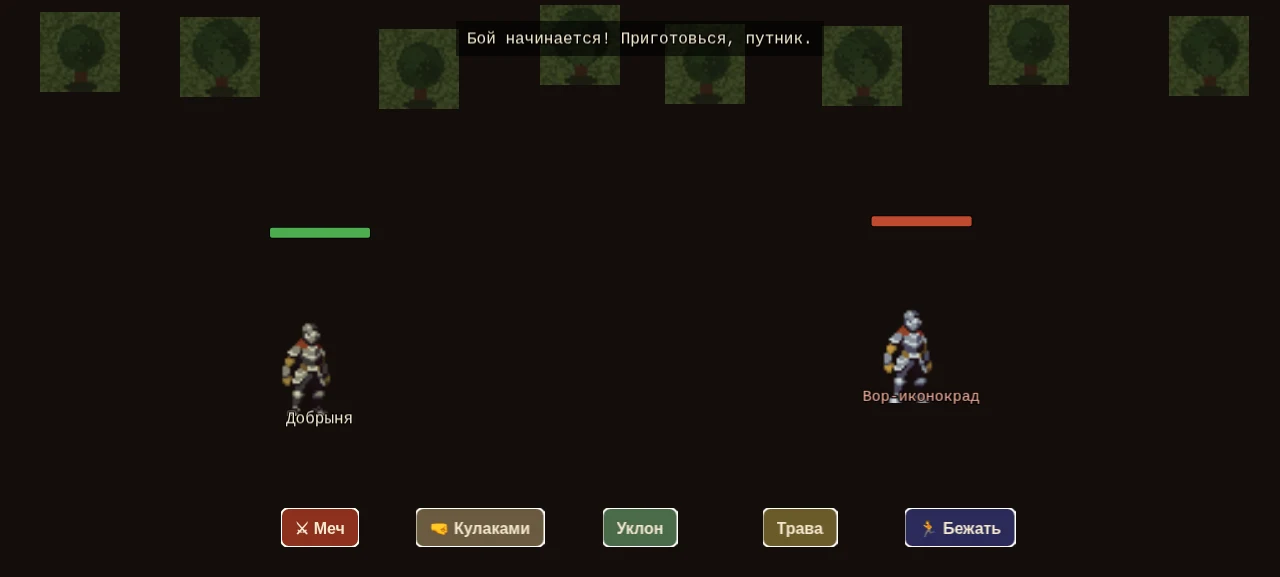
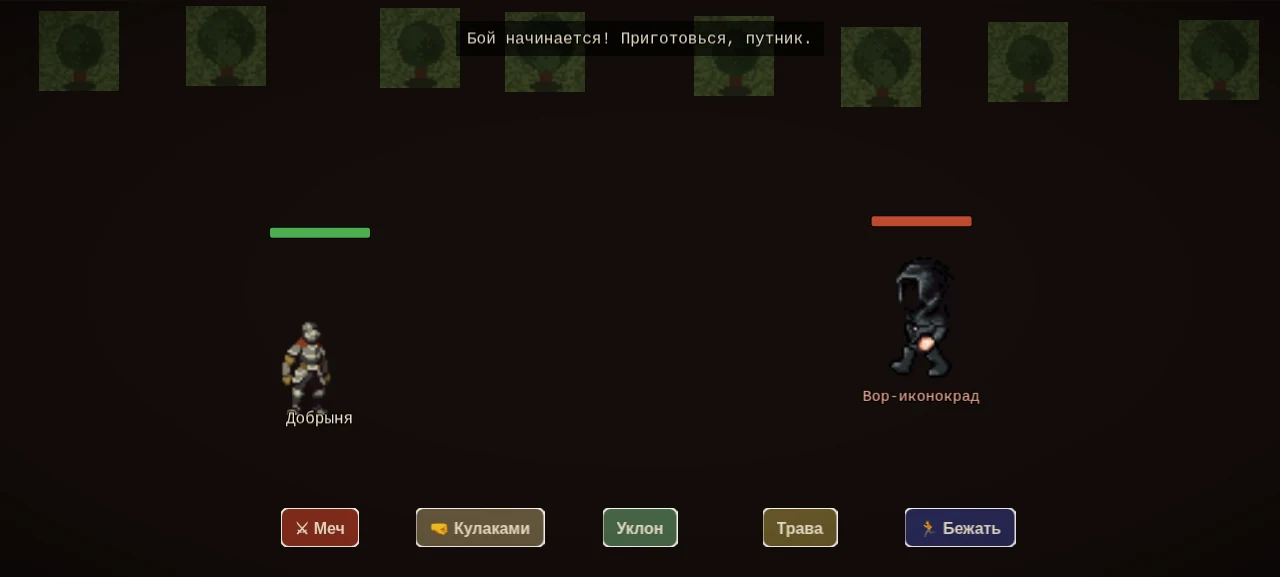
feat: раунд 33 — уникальная фигурка вора (угольно-серый капюшон, серый плащ, кинжал; LPC-композит enemy_thief.png, скрипт make_thief_sprite.py); фикс «вор одинаков с игроком» в бою: режиссёр скриншотов ждал активации Title (гонка давала fallback-рыцаря knight_idle_c2 — точную копию героя), в бою сто

diff --git a/game/src/data/thief.js b/game/src/data/thief.js
@@ -899,10 +899,18 @@ export function presentThiefEncounter(scene, locationId, opts = {}) {
     scene.busyDialog = true;
 
     const { width, height } = scene.scale;
-    const x = (opts.x !== undefined) ? opts.x : width * 0.68;
-    const y = (opts.y !== undefined) ? opts.y : height * 0.27;
-    const texKey = scene.textures.exists('enemy_bandit') ? 'enemy_bandit' : 'knight_idle';
-    const sprite = scene.add.image(x, y, texKey).setScale(2.6).setDepth(60);
+    // Раунд 33: вор стоит В ПРАВОЙ свободной зоне (панель диалога занимает
+    // ~26–73% ширины по центру — раньше фигурка пряталась за ней).
+    const x = (opts.x !== undefined) ? opts.x : width * 0.83;
+    const y = (opts.y !== undefined) ? opts.y : height * 0.40;
+    // Раунд 33 (владелец): у вора — УНИКАЛЬНАЯ фигурка (капюшон, серый плащ,
+    // кинжал), а не общий «крестьянин», как у игрока. Рисуем ОДИН кадр листа
+    // (раньше add.image показывал всю сетку 4×4), профиль ВЛЕВО — на игрока.
+    const texKey = scene.textures.exists('enemy_thief') ? 'enemy_thief'
+        : (scene.textures.exists('enemy_bandit') ? 'enemy_bandit' : 'knight_idle');
+    // кадр 4 = строка 1 (профиль влево), колонка 0 (стойка)
+    const thiefFrame = (texKey === 'knight_idle') ? 0 : 4;
+    const sprite = scene.add.sprite(x, y, texKey, thiefFrame).setScale(2.6).setDepth(60);
     scene.tweens.add({
         targets: sprite,
         y: y - 4,

diff --git a/game/src/scenes/BootScene.js b/game/src/scenes/BootScene.js
@@ -53,7 +53,8 @@ export class BootScene extends Phaser.Scene {
         this.load.image('deco_fence', 'assets/tiles/fence_0.png');
 
         // ----- СПРАЙТЫ ПЕРСОНАЖЕЙ (spritesheets 64×64, 16 кадров: 4 строки × 4 колонки) -----
-        const spriteKeys = ['player', 'npc_elder', 'npc_merchant', 'npc_soldier', 'npc_bandit', 'enemy_bandit', 'enemy_wolf'];
+        // Раунд 33: 'enemy_thief' — уникальная фигурка вора (капюшон/плащ/кинжал)
+        const spriteKeys = ['player', 'npc_elder', 'npc_merchant', 'npc_soldier', 'npc_bandit', 'enemy_bandit', 'enemy_thief', 'enemy_wolf'];
         spriteKeys.forEach((key) => {
             this.load.spritesheet(key, `assets/sprites/${key}.png`, { frameWidth: 64, frameHeight: 64 });
         });
@@ -296,6 +297,7 @@ export class BootScene extends Phaser.Scene {
         this.createWalkAnimations('npc_soldier');
         this.createWalkAnimations('npc_bandit');
         this.createWalkAnimations('enemy_bandit');
+        this.createWalkAnimations('enemy_thief');   // раунд 33: фигурка вора
         this.createWalkAnimations('enemy_wolf');
 
         // ----- Анимации Fantasy Knight (для CombatScene) -----

diff --git a/game/src/tools/ScreenshotDirector.js b/game/src/tools/ScreenshotDirector.js
@@ -113,7 +113,12 @@ export function bootScreenshotDirector() {
     // Ждём полной загрузки игры (window.game создан в index.html) и запускаем
     const t0 = Date.now();
     const tryStart = () => {
-        if (window.game && window.game.scene && window.game.scene.getScene('Title')) {
+        // Раунд 33 (фикс): ждать не только СУЩЕСТВОВАНИЯ сцены Title (экземпляры
+        // создаются при старте игры), но и её АКТИВАЦИИ — иначе сценарий мог
+        // стартовать до BootScene.create, анимации рыцаря/вора ещё не были
+        // созданы, и вор в бою отрисовывался запасным рыцарем (как у игрока).
+        const title = window.game && window.game.scene && window.game.scene.getScene('Title');
+        if (title && title.scene.isActive()) {
             SCENARIOS[shot]().catch(err => console.error('[shots] scenario failed:', shot, err));
             return;
         }

diff --git a/game/src/scenes/CombatScene.js b/game/src/scenes/CombatScene.js
@@ -129,6 +129,11 @@ export class CombatScene extends Phaser.Scene {
                 // Fallback — стандартный спрайт (top-down)
                 sp = this.add.sprite(x, y, e.spriteKey, 0).setScale(2.5);
                 sp.play(`${e.spriteKey}_idle_down`);
+            } else if (this.textures.exists(e.spriteKey)) {
+                // Раунд 33 (фикс): если анимации не успели создаться (гонка при
+                // старте) — показываем СТАТИЧНЫЙ кадр собственного спрайта врага
+                // (вид спереди), а НЕ запасного рыцаря, одинакового с игроком.
+                sp = this.add.sprite(x, y, e.spriteKey, 0).setScale(2.5);
             } else {
                 // Fallback на рыцаря (для других врагов тоже используем knight_c2)
                 sp = this.add.sprite(x, y, 'knight_idle_c2', 0).setScale(2.5);

diff --git a/game/src/data/characters.js b/game/src/data/characters.js
@@ -53,7 +53,10 @@ export const ENEMY_TEMPLATES = {
         attackSkill: 50,
         dodge: 35,   // раунд 32: вёрткий вор (было 30) — слабые бойцы мажут чаще
         db: { min: 1, max: 4 },
-        spriteKey: 'enemy_bandit',
+        // Раунд 33 (владелец): уникальная фигурка вора — капюшон, серый
+        // плащ, кинжал (LPC-композит, см. game/tools/make_thief_sprite.py).
+        // Раньше был 'enemy_bandit' — тот же «крестьянин», что у игрока.
+        spriteKey: 'enemy_thief',
         color: 0x222222,
         armorId: 'leather',  // кожаная броня, def 2
     },

diff --git a/sw.js b/sw.js
@@ -23,8 +23,8 @@ v17 — релиз: все скриншоты пересняты из актуа
 v4 — добавлено кеширование /game/assets/ (cache-first).
    Сцены игры (/game/src/) НЕ кешируются — для горячей перезагрузки. */
 
-var CACHE_NAME = 'chronicles-ruthenia-v30';
-var GAME_ASSETS_CACHE = 'game-assets-v1';
+var CACHE_NAME = 'chronicles-ruthenia-v31';
+var GAME_ASSETS_CACHE = 'game-assets-v2';
 
 self.addEventListener('install', function (event) {
     self.skipWaiting();

diff --git a/game/tools/make_thief_sprite.py b/game/tools/make_thief_sprite.py
@@ -1,0 +1,78 @@
+#!/usr/bin/env python3
+# Раунд 33: уникальная фигурка вора (enemy_thief.png).
+# Основа — Universal LPC (как у всех жителей), но воровской облик:
+# угольно-серый капюшон, серый плащ, тёмная одежда, кинжал.
+# Части: локальные game/assets/lpc + hat/cloth/hood + cape/solid/male + dagger
+# из репозитория sanderfrenken (лицензии в game/assets/lpc/CREDITS.csv).
+#
+# Игровой лист: 256×256, кадры 64×64, сетка 4×4, строки 0=down,1=left,2=right,3=up,
+# колонки: 0=idle, 1..3 = шаги (BootScene.createWalkAnimations играет [1,2,3,2]).
+import os
+from PIL import Image
+
+ROOT = '/home/z/sosnewda-live'
+OUT = os.path.join(ROOT, 'game/assets/sprites/enemy_thief.png')
+FS = 64
+
+# Слои снизу вверх (порядок как в manifest.json игры: body→hair→legs→feet→torso,
+# затем плащ, капюшон, кинжал). Плащ «solid» рисуется ПОВЕРХ — это visible cloak.
+LAYERS = [
+    ROOT + '/game/assets/lpc/body/male_light.png',
+    ROOT + '/game/assets/lpc/hair/messy1_black.png',
+    ROOT + '/game/assets/lpc/legs/pants_charcoal.png',
+    ROOT + '/game/assets/lpc/feet/boots_charcoal.png',
+    ROOT + '/game/assets/lpc/torso/longsleeve_laced_charcoal.png',
+    ROOT + '/game/assets/lpc/extra/cape_gray_male.png',
+    ROOT + '/game/assets/lpc/extra/hood_charcoal.png',
+    ROOT + '/game/assets/lpc/extra/dagger.png',
+]
+
+# В классическом LPC-листе (832×1344) walk-строки = 8..11 в порядке
+# up, left, down, right (проверено визуально: 8 — спина, 9 — профиль влево,
+# 10 — лицо, 11 — профиль вправо). Игра ждёт: 0=down,1=left,2=right,3=up.
+LPC_ROW_FOR_GAME_ROW = {0: 10, 1: 9, 2: 11, 3: 8}
+# Колонки игры из 9-кадрового walk-цикла LPC: idle=проход(1), шаги 0 и 2.
+COL_FROM_LPC = {0: 1, 1: 0, 2: 1, 3: 2}
+
+
+def frame(img, row, col):
+    return img.crop((col * FS, row * FS, (col + 1) * FS, (row + 1) * FS))
+
+
+def main():
+    imgs = [Image.open(p).convert('RGBA') for p in LAYERS]
+    out = Image.new('RGBA', (FS * 4, FS * 4), (0, 0, 0, 0))
+    for grow, lrow in LPC_ROW_FOR_GAME_ROW.items():
+        for gcol, lcol in COL_FROM_LPC.items():
+            canvas = Image.new('RGBA', (FS, FS), (0, 0, 0, 0))
+            for img in imgs:
+                # листы 832×1344 и 832×2944: walk-строки одинаковы (8..11)
+                canvas.alpha_composite(frame(img, lrow, lcol))
+            out.paste(canvas, (gcol * FS, grow * FS))
+    out.save(OUT)
+    print('saved', OUT)
+
+    # Контактный лист для проверки (×3, на тёмном фоне, с рамками сетки)
+    dbg = Image.new('RGBA', (FS * 4 * 3, FS * 4 * 3), (45, 40, 52, 255))
+    big = out.resize((FS * 4 * 3, FS * 4 * 3), Image.NEAREST)
+    dbg.alpha_composite(big)
+    for i in range(1, 4):
+        for a in range(0, dbg.width, 3):
+            pass
+    px = dbg.load()
+    for i in range(1, 4):
+        x = i * FS * 3
+        for y in range(dbg.height):
+            if y % 3 == 0:
+                px[x, y] = (255, 0, 0, 255)
+    for i in range(1, 4):
+        y = i * FS * 3
+        for x in range(dbg.width):
+            if x % 3 == 0:
+                px[x, y] = (255, 0, 0, 255)
+    dbg.convert('RGB').save('/tmp/thief_preview.png')
+    print('preview /tmp/thief_preview.png')
+
+
+if __name__ == '__main__':
+    main()

diff --git a/CHANGES.md b/CHANGES.md
@@ -1,3 +1,15 @@
+## Раунд 33 — Уникальная фигурка вора (2026-09-16)
+
+**1. У ВОРА — СОБСТВЕННАЯ ФИГУРКА** — раньше вор рисовался тем же спрайтом, что разбойник и «крестьянин» игрока (в бою — и вовсе запасной рыцарь, одинаковый с героем). Собран новый лист `enemy_thief.png` (4×4, 64px): угольно-серый капюшон, серый плащ, тёмная одежда, кинжал в руке. Части — Universal LPC (hat/cloth/hood, cape/solid/male, weapon/sword/dagger, лицензии уже в `game/assets/lpc/CREDITS.csv`); сборка — скрипт `game/tools/make_thief_sprite.py` (перезапускается за секунду).
+
+**2. ФИКС «ОДИНАКОВЫХ С ИГРОКОМ» В БОЮ** — найдена гонка: директор скриншотов стартовал сценарий до активации Title, бой открывался до создания анимаций, и вор отрисовывался запасным рыцарем `knight_idle_c2` — точной копией героя (это и попало на скриншот 08 раунда 32). Директор теперь ждёт активации сцены; в CombatScene добавлен стойкий запасной вариант — статичный кадр собственного спрайта врага вместо рыцаря.
+
+**3. ВСТРЕЧА С ВОРОМ НА ЛОКАЦИИ** — фигурка вора рисуется ОДНИМ кадром листа (раньше `add.image` показывал всю сетку 4×4), профилем ВЛЕВО — на игрока, и стоит в правой свободной зоне экрана: раньше он прятался за панелью диалога.
+
+**4. СКРИНШОТЫ 08 И 09 ПЕРЕСНЯТЫ** — на сайте в кадрах боя и встречи с вором теперь уникальный капюшонный вор (`?renderer=canvas` — детерминированный Canvas-рендер для съёмки).
+
+**5. КЭШ** — SW `chronicles-ruthenia-v31`, кэш игровых ассетов `game-assets-v2` (новый спрайт подтянется сразу, а не со второго визита).
+
 ## Раунд 32 — Час за шаг вора, время 1:30, симуляция боя, скриншоты по 3 в ряд (2026-09-16)
 
 **1. СПИСОК СКРИНШОТОВ САЙТА — ПО 3 В РЯД** — галерея перестроена (`repeat(3, 1fr)`, на мобильных — колонка) и снята заново в порядке владельца: 1) Главное меню; 2) Окно выбора персонажа; 3) Окно кастомизации персонажа; 4) Локация «Деревня»; 5) Карта местности (теперь все 11 локаций, включая Опушку и Поляну); 6) Интерьер дома старосты; 7) Начальный диалог со священником (рассказ о краже иконы); 8) Окно сцены боя; 9) Локация с вором и персонажем игрока до боя. Для съёмки добавлен отладочный «директор скриншотов» (`game/src/tools/ScreenshotDirector.js`, параметр `?shot=menu|select|custom|village|map|interior|priest|thief|combat&renderer=canvas`) — переснятие любых кадров теперь занимает минуты.
